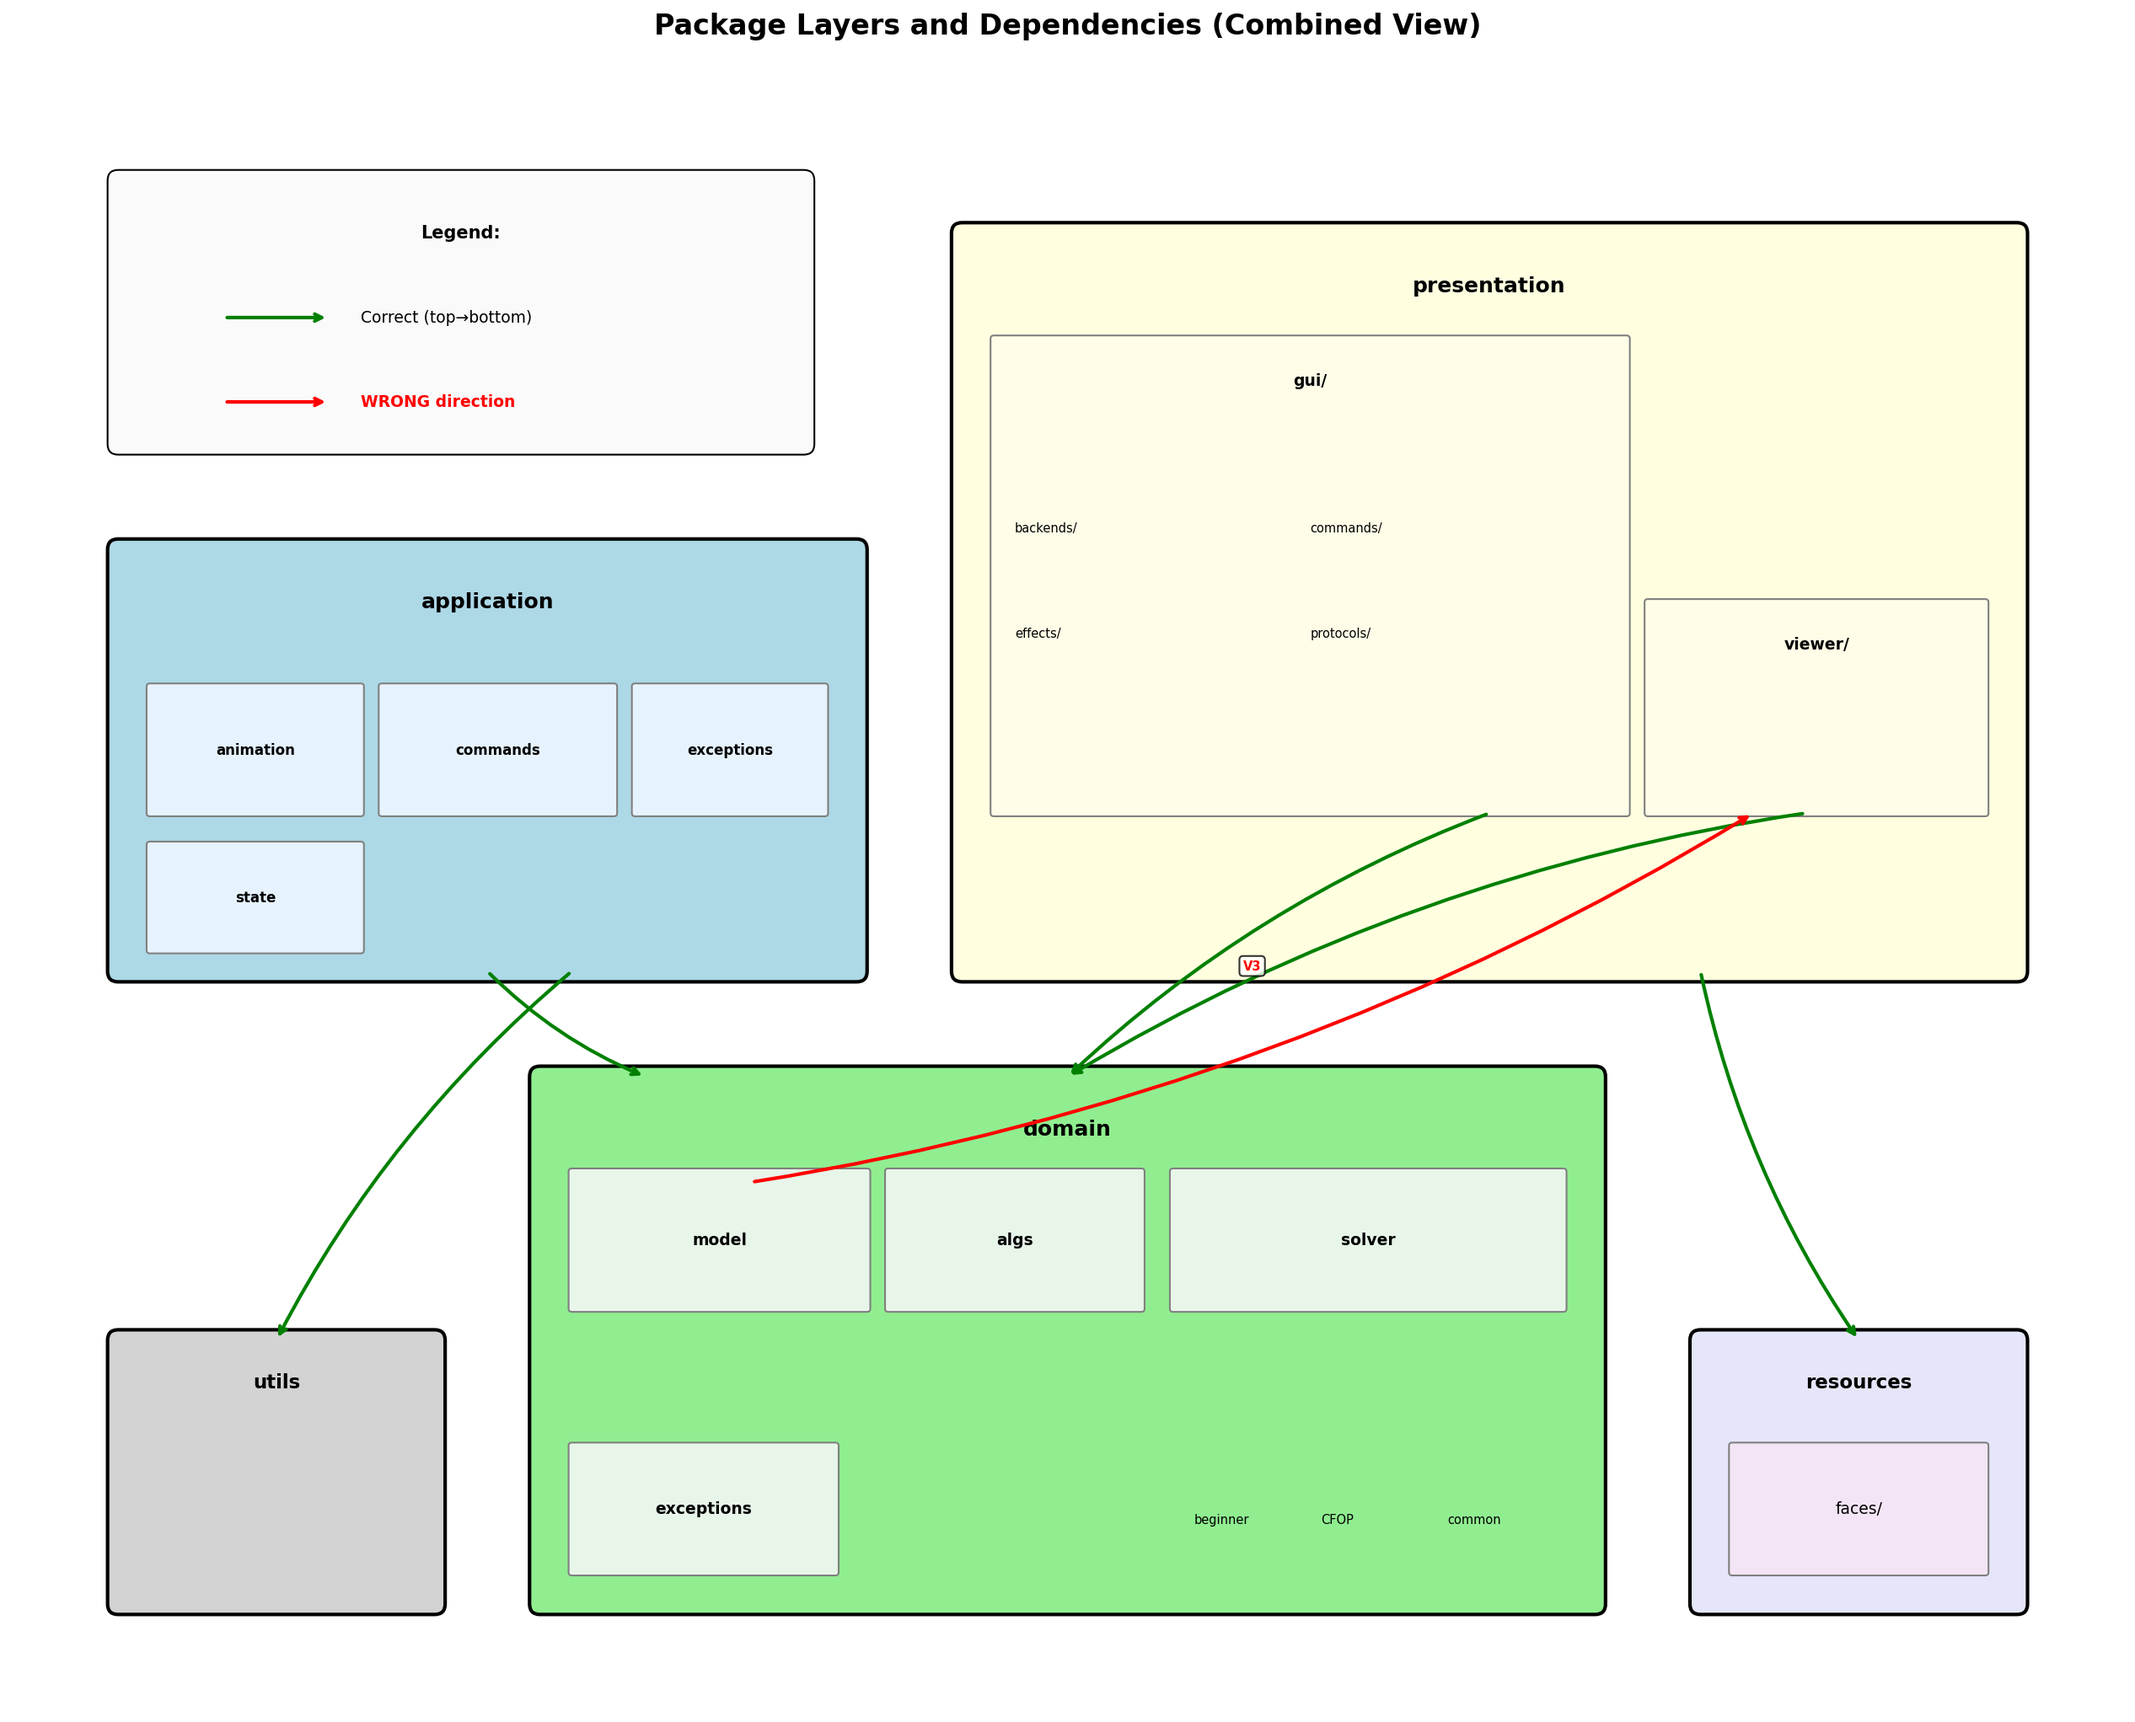
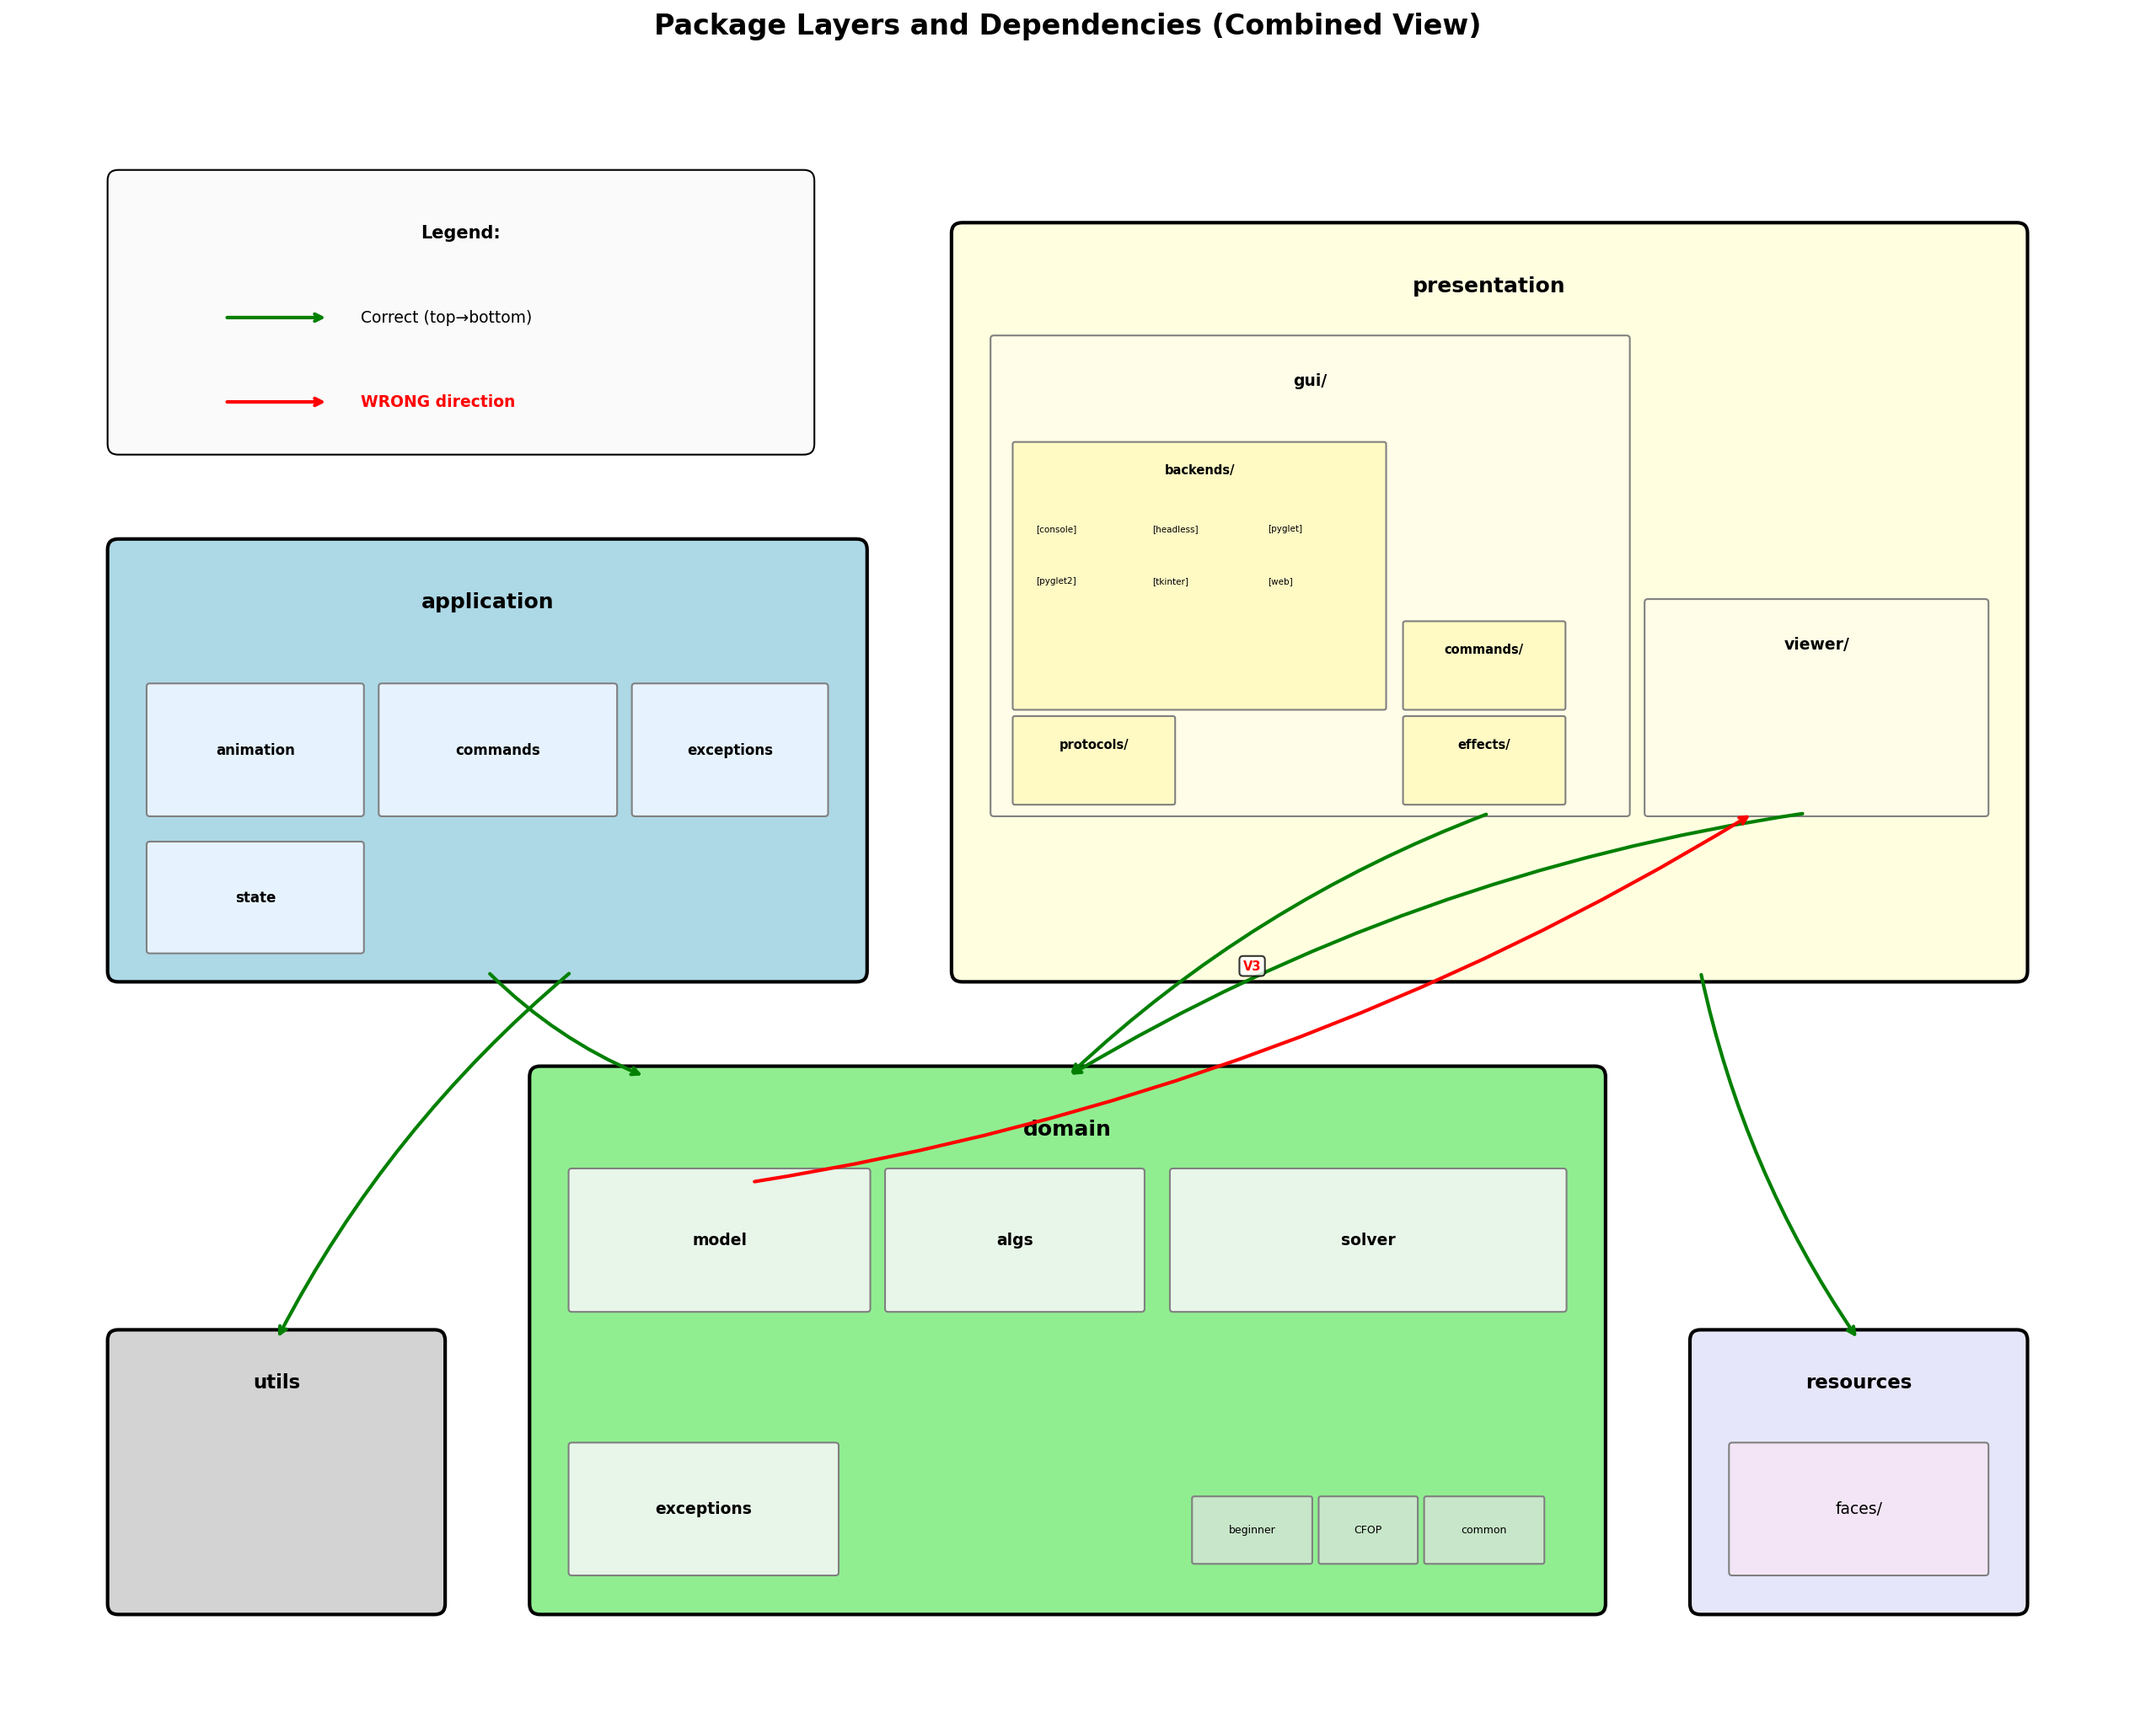
Add full hierarchy details to combined diagram
Combined diagram now shows:
- Solver sub-packages (beginner, CFOP, common) with boxes
- GUI sub-packages (backends, commands, effects, protocols) with boxes
- Backends list (console, headless, pyglet, pyglet2, tkinter, web)

🤖 Generated with [Claude Code](https://claude.com/claude-code)

Changed region(s): [[0.4678, 0.2466, 0.7485, 0.4932], [0.5614, 0.863, 0.7485, 0.9247]]

diff --git a/design2/images/generate_layers_diagrams.py b/design2/images/generate_layers_diagrams.py
@@ -390,9 +390,12 @@ def create_combined_layers_diagram():
                                      facecolor=SUBLAYER_COLORS['domain'], edgecolor='gray'))
         ax.text(x + w/2, y + h/2, name, ha='center', va='center', fontsize=9, fontweight='bold')
 
-    # Solver sub-sublayers
-    for i, name in enumerate(['beginner', 'CFOP', 'common']):
-        ax.text(10.2 + i*1.2, 0.8, name, ha='left', va='center', fontsize=7)
+    # Solver sub-sublayers with boxes
+    solver_subs = [('beginner', 10.2, 0.4, 1.1, 0.6), ('CFOP', 11.4, 0.4, 0.9, 0.6), ('common', 12.4, 0.4, 1.1, 0.6)]
+    for name, x, y, w, h in solver_subs:
+        ax.add_patch(FancyBboxPatch((x, y), w, h, boxstyle="round,pad=0.02",
+                                     facecolor='#C8E6C9', edgecolor='gray'))
+        ax.text(x + w/2, y + h/2, name, ha='center', va='center', fontsize=6)
 
     # === APPLICATION (upper left) ===
     app_box = FancyBboxPatch((0, 6), 7, 4, boxstyle="round,pad=0.1",
@@ -428,10 +431,24 @@ def create_combined_layers_diagram():
                                      facecolor=SUBLAYER_COLORS['presentation'], edgecolor='gray'))
         ax.text(x + w/2, y + h - 0.4, name, ha='center', va='center', fontsize=9, fontweight='bold')
 
-    # GUI sub-sublayers
-    gui_subs = ['backends/', 'commands/', 'effects/', 'protocols/']
-    for i, name in enumerate(gui_subs):
-        ax.text(8.5 + (i % 2) * 2.8, 10.2 - (i // 2) * 1, name, ha='left', va='center', fontsize=7)
+    # GUI sub-sublayers with backends list
+    gui_sub_boxes = [
+        ('backends/', 8.5, 8.5, 3.5, 2.5),
+        ('commands/', 12.2, 8.5, 1.5, 0.8),
+        ('effects/', 12.2, 7.6, 1.5, 0.8),
+        ('protocols/', 8.5, 7.6, 1.5, 0.8),
+    ]
+    for name, x, y, w, h in gui_sub_boxes:
+        ax.add_patch(FancyBboxPatch((x, y), w, h, boxstyle="round,pad=0.02",
+                                     facecolor='#FFF9C4', edgecolor='gray'))
+        ax.text(x + w/2, y + h - 0.25, name, ha='center', va='center', fontsize=7, fontweight='bold')
+
+    # Backends list inside backends box
+    backends = ['console', 'headless', 'pyglet', 'pyglet2', 'tkinter', 'web']
+    for i, name in enumerate(backends):
+        x = 8.7 + (i % 3) * 1.1
+        y = 10.2 - (i // 3) * 0.5
+        ax.text(x, y, f'[{name}]', ha='left', va='center', fontsize=5)
 
     # === ARROWS ===
     # Helper for arrows
